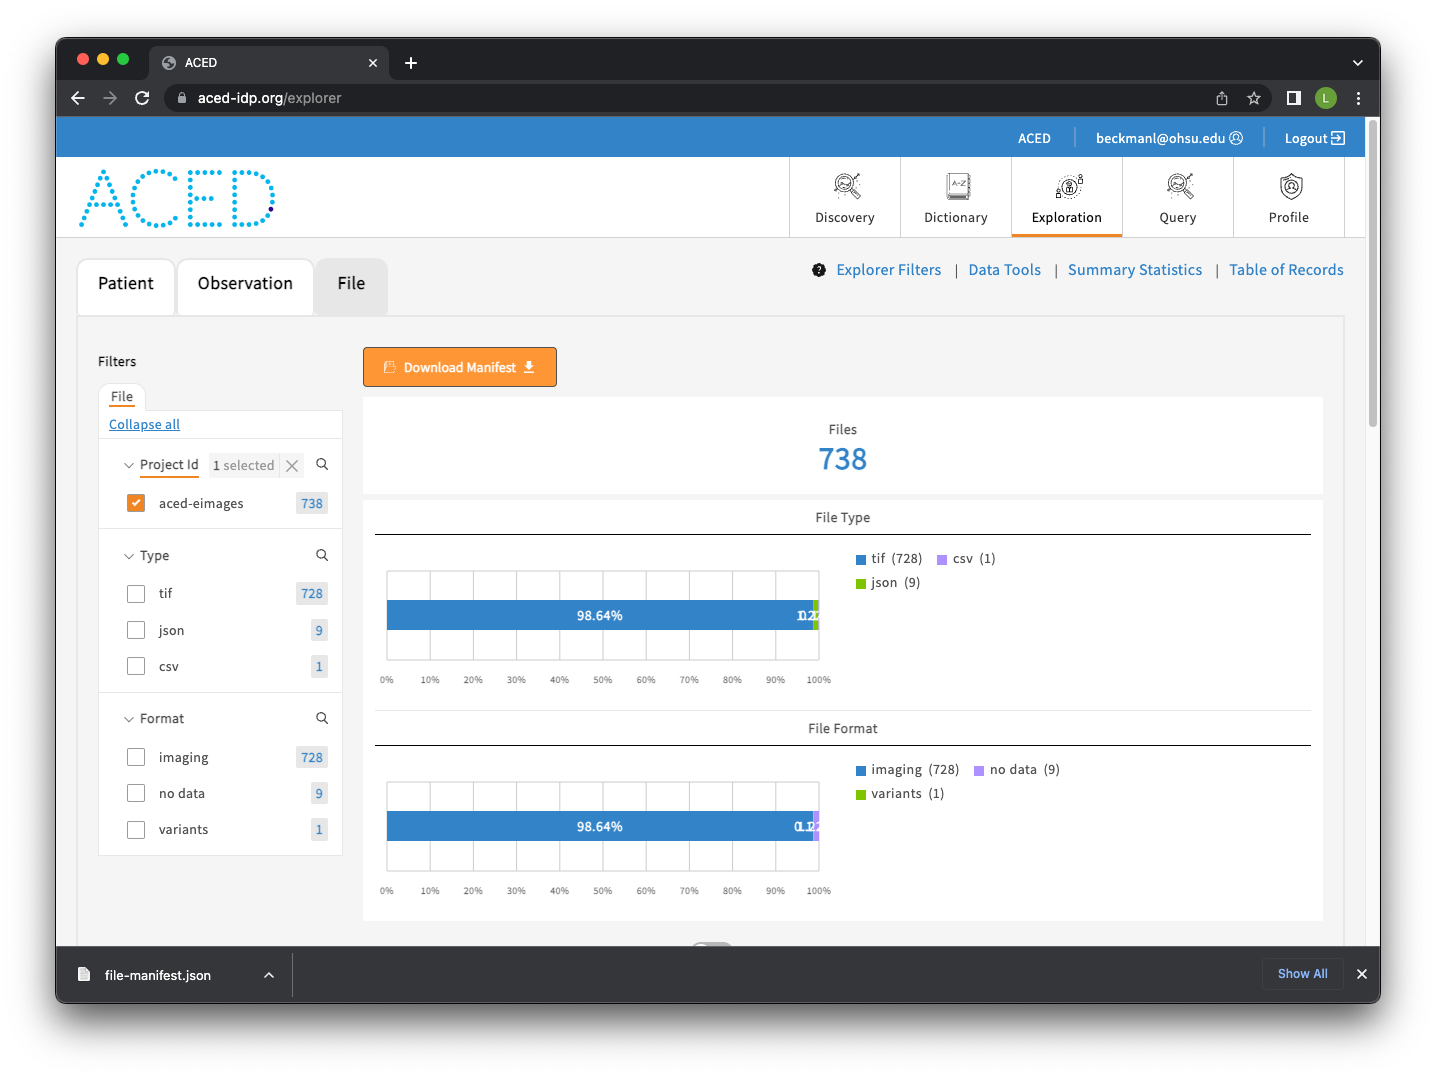
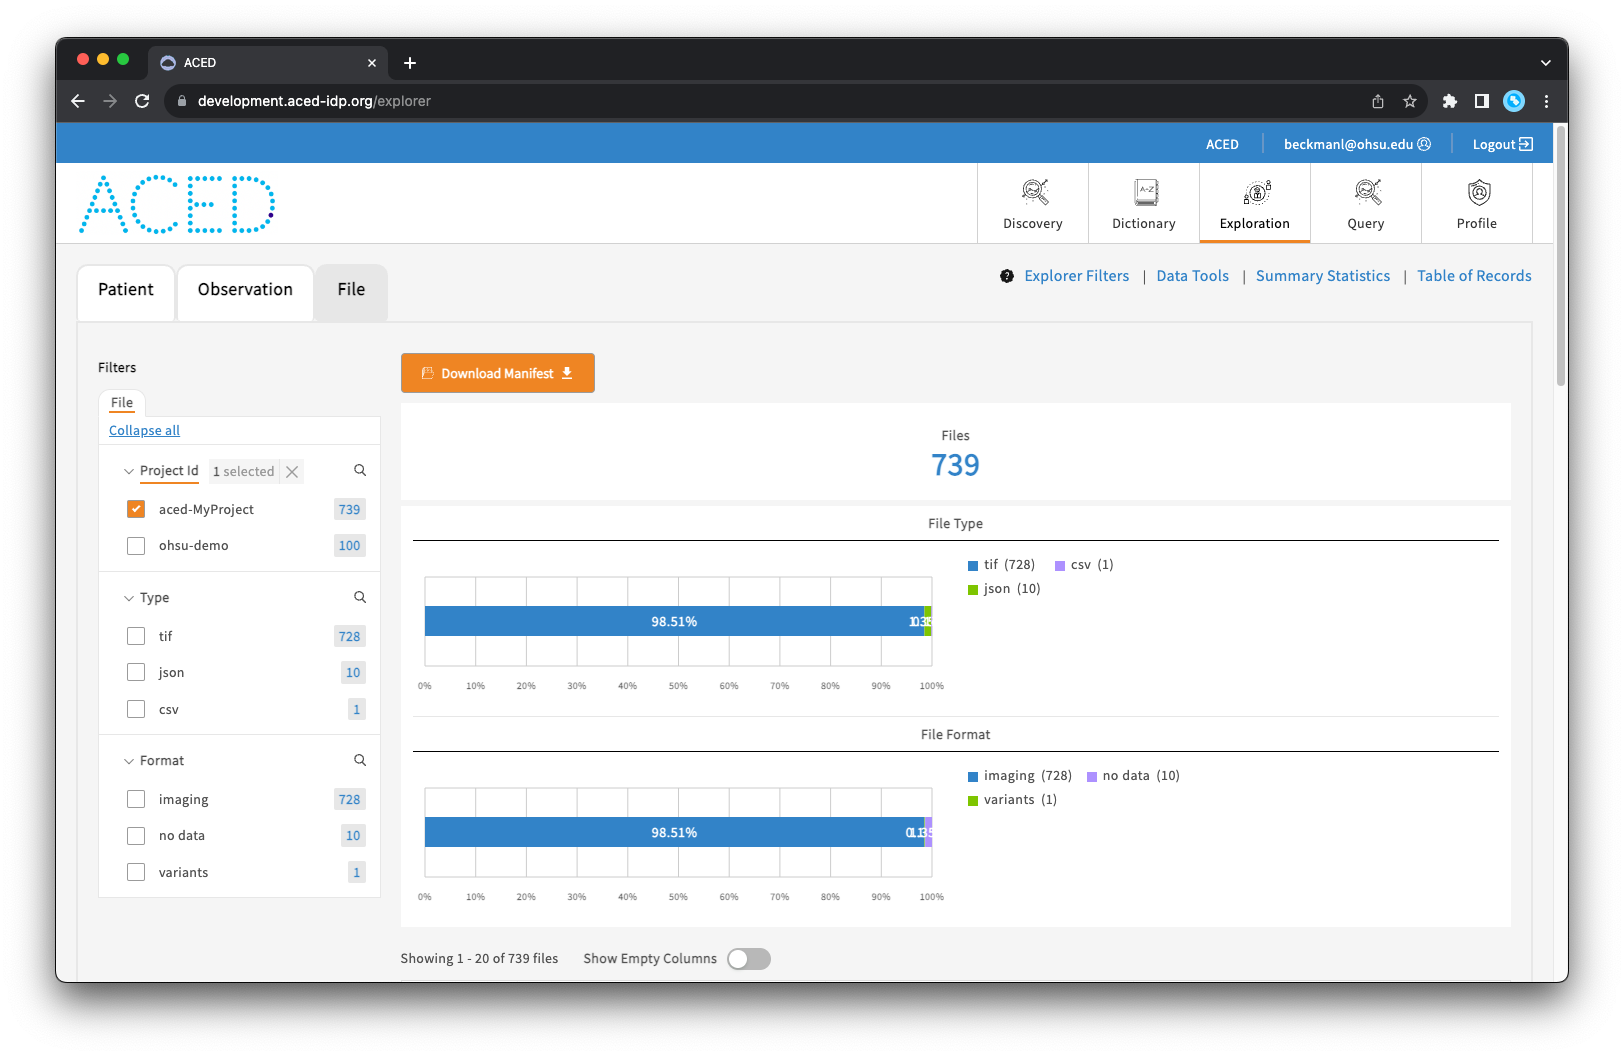
Add Project Workflow as first/primary doc

diff --git a/docs/ACED-file-download.md b/docs/ACED-file-download.md
@@ -1,6 +1,31 @@
 # ACED File Download
 
+## Requirements
+
+- [gen3-client](https://github.com/uc-cdis/cdis-data-client) — Data access client 
+
+### Installing the Requirements
+
+To install the gen3-client, follow the steps adapted from the [Gen3 Resources page](https://gen3.org/resources/user/gen3-client/#1-installation-instructions):
+
+1. Download the latest version of the gen3-client [here](https://github.com/uc-cdis/cdis-data-client/releases/latest).
+2. Unzip the archive.
+3. Add the unzipped executable to a directory, for example: `~/.gen3/gen3-client.exe`.
+4. Add the directory containing the executable to your Path environment variable by entering this command in the terminal: `echo 'export PATH=$PATH:~/.gen3' >> ~/.bash_profile`.
+5. Run `source ~/.bash_profile` or restart your terminal.
+6. Now you can execute the program by opening a terminal window and entering the command `gen3-client`.
+
+**Note**: If your macOS does not allow access, you need to manually allow it under System Preferences > Security & Privacy > General (click the lock icon to unlock, enter administrator name and password).
+
+
 ## Download Steps
+
+The download steps below use the following example values for the name of project and directory to which files will be downloaded:
+
+- Project name: **aced-MyProject**
+- Data directory: **aced-files**
+
+Please substitute these values with your own when running the upload steps.
 
 1. Navigate to the [ACED data commons](https://aced-idp.org/)
 
@@ -12,7 +37,7 @@
 
 4. Create a credentials.json file by selecting 'Create API key' > 'Download json'
 
-    In this example we'll download the credentials file to our Downloads directory (~/Downloads).
+    In this example the credentials file is downloaded to the Downloads directory (`~/Downloads`).
 
     ![Creating a credentials.json key](./images/credentials-json.png)
 
@@ -20,35 +45,23 @@
 
 6. Select the File tab
 
-7. Choose the aced-eimages project in the sidebar
+7. Choose the desired project in the sidebar (e.g. aced-MyProject)
 
 8. Click the 'Download Manifest' button to begin the manifest generation
 
     ![Downloading a file manifest](./images/file-manifest-download.png)
 
-9. Install the gen3-client
+9. Configure the gen3-client with the credentials.json file downloaded in Step 4. This step is only required the first time the gen3-client is used (the configuration here will be used for any future downloads).
 
-    Adapted from the installation instructions page for macOS, Windows, and Linux on the [Gen3 Resources page](https://gen3.org/resources/user/gen3-client/#1-installation-instructions):
+    ```sh
+    gen3-client configure --profile=aced --cred=./credentials.json --apiendpoint=https://aced-idp.org
+    ```
 
-    1. Download the latest Mac OS X or Linux version of the gen3-client [here](https://github.com/uc-cdis/cdis-data-client/releases/latest).
-    2. Unzip the archive.
-    3. Add the unzipped executable to a directory, for example: `~/.gen3/gen3-client.exe`.
-    4. Open a terminal window.
-    5. Add the directory containing the executable to your Path environment variable by entering this command in the terminal: `echo 'export PATH=$PATH:~/.gen3' >> ~/.bash_profile`.
-    6. Run `source ~/.bash_profile` or restart your terminal.
-    7. Now you can execute the program by opening a terminal window and entering the command `gen3-client`.
+10. Download the files to the desired directory (e.g. `./aced-files`)
 
-    **Note**: If your Mac OS X does not allow access, you need to manually allow it under System Preferences > Security & Privacy > General (click the lock icon to unlock, enter administrator name and password).
-
-10. Configure the gen3-client
-
-        # This step uses the credentials.json file we downloaded earlier in Step 4
-        gen3-client configure --profile=aced --cred=./credentials.json --apiendpoint=https://aced-idp.org
-
-11. Start the download
-
-        # This step will download all files to the ./aced-files directory
-        gen3-client download-multiple --profile=aced --manifest=./file-manifest.json --download-path=./aced-files
+    ```sh
+    gen3-client download-multiple --profile=aced --manifest=./file-manifest.json --download-path=./aced-files
+    ```
 
     ![Starting the file download](./images/file-download.png)
 

diff --git a/docs/index.md b/docs/index.md
@@ -1,22 +1,19 @@
-# Welcome to the ACED Documentation
+# Welcome to the ACED-IDP Portal Documentation
 
-## ACED Commons Deployments & Sites
+<a href="https://www.cancerresearchuk.org/funding-for-researchers/research-opportunities-in-early-detection-and-diagnosis/international-alliance-for-cancer-early-detection">![ACED logo](./images/aced_website_header.jpg)</a>
 
-| Deployment     | Site                                                                           |
-| -------------- | ------------------------------------------------------------------------------ |
-| Production     | [aced-idp.org](https://aced-idp.org)                                           |
-| Staging        | [staging.aced-idp.org](https://staging.aced-idp.org)                           |
-| Development    | [development.aced-idp.org](https://development.aced-idp.org)                   |
-| Status Monitor | [aced-idp.github.io/status-monitor](https://aced-idp.github.io/status-monitor) |
+This is the documentation for the [ACED-IDP Data Commons](https://aced-idp.org), serving the [International Alliance for Cancer Early Detection](https://www.cancerresearchuk.org/funding-for-researchers/research-opportunities-in-early-detection-and-diagnosis/international-alliance-for-cancer-early-detection)
 
+> The International Alliance for Cancer Early Detection (ACED) is a new £55 million partnership between Cancer Research UK, the Canary Center at Stanford University, the University of Cambridge, the Knight Cancer Institute at OHSU, University College London and the University of Manchester.
 
-## File Download
+> We are uniting world leading researchers to tackle the biggest challenges in early detection, an important area of unmet clinical need. Scientists in the Alliance are working together at the forefront of technological innovation to translate research into realistic ways to improve cancer diagnosis, which can be implemented into health systems and meaningfully benefit people with cancer.
 
-See the [ACED File Download](./ACED-file-download.md) page for instructions on downloading files using a file manifest.
+## Getting Started
+
+Please see the [Project Workflow](./ACED-project-workflow.md) page for instructions on how to create a project, add authorized users, and upload files with a manifest.
 
 <a href="https://aced-idp.org">![Main landing page for ACED IDP](./images/main-page.png)</a>
 
 ## Source
 
 The code for this site lives at [github.com/ACED-IDP/aced-idp.github.io](https://github.com/ACED-IDP/aced-idp.github.io) and is built with [Material for MkDocs](https://squidfunk.github.io/mkdocs-material/).
-

diff --git a/docs/ACED-file-upload.md b/docs/ACED-file-upload.md
@@ -1,0 +1,77 @@
+# ACED File Upload
+
+## Requirements
+
+- [Python 3](https://www.python.org/downloads/) — Supported version include >=3.9
+- [gen3_util](https://github.com/ACED-IDP/gen3_util) — Utilities to manage Gen3 schemas, projects and submissions
+
+### Installing the Requirements
+
+To install Python 3 on a macOS system, run the following:
+
+```sh
+brew install python3
+```
+
+To install gen3_util, run the following:
+
+```sh
+# Optionally create a virtual environment for the installation
+python3 -m venv venv && source venv/bin/activate
+
+# Install gen3_util from PyPi
+pip install gen3_util
+```
+
+## Upload Steps
+
+The upload steps below use the following example values for the name of project, directory containing the files to upload, and (optionally) an e-mail address used to grant project access to another user:
+
+- Project name: **aced-MyProject**
+- Data directory: **aced-files**
+- E-mail: **collaborator@aced-idp.org** (optional, only needed if granting project access to other users)
+
+Please substitute these values with your own when running the upload steps.
+
+1. Create the project (e.g. aced-MyProject)
+
+    ```sh
+    gen3_util projects touch aced-MyProject
+    ```
+
+2. Import the project's metadata
+
+    ```sh
+    gen3_util meta import dir ./aced-files --project_id aced-MyProject
+    ```
+
+3. Upload the metadata to the the bucket
+
+    ```sh
+    gen3_util files cp --duplicate_check --project_id aced-MyProject manifest/DocumentReference.ndjson bucket://aced-ohsu-production
+    ```
+
+4. (Optional) Add access policy to the project to allow access to authorized users
+
+    ```sh
+    gen3_util projects add policies aced-MyProject
+    ```
+
+5. (Optional) Add new user to the project via their e-mail address (e.g. collaborator@aced-idp.org)
+
+    ```sh
+    gen3_util projects add user aced-MyProject collaborator@aced-idp.org
+    # msg: Approve these requests to assign default policies to aced-MyProject
+    # commands:
+    # - gen3_util access update 34ccd2cf-48e6-4e55-88ce-70d21ba27a98 SIGNED
+    # - gen3_util access update 0a19a6f8-947c-428b-a443-ab983f098734 SIGNED
+    ```
+
+6. (Optional) Give user permissions to the project
+
+    ```sh
+    gen3_util access update 34ccd2cf-48e6-4e55-88ce-70d21ba27a98 SIGNED
+    gen3_util access update 0a19a6f8-947c-428b-a443-ab983f098734 SIGNED
+    ```
+
+![Starting the file upload](./images/file-upload.png)

diff --git a/docs/ACED-project-workflow.md b/docs/ACED-project-workflow.md
@@ -12,6 +12,7 @@ A “data file” could be information like tabulated data values in a spreadshe
 
 For the ACED data commons, we have created a data dictionary based on the FHIR data standard. The data dictionary is available [here](https://github.com/bmeg/iceberg-schema-tools)
 
+### Installing the Requirements
 
 
 ## Dependencies
